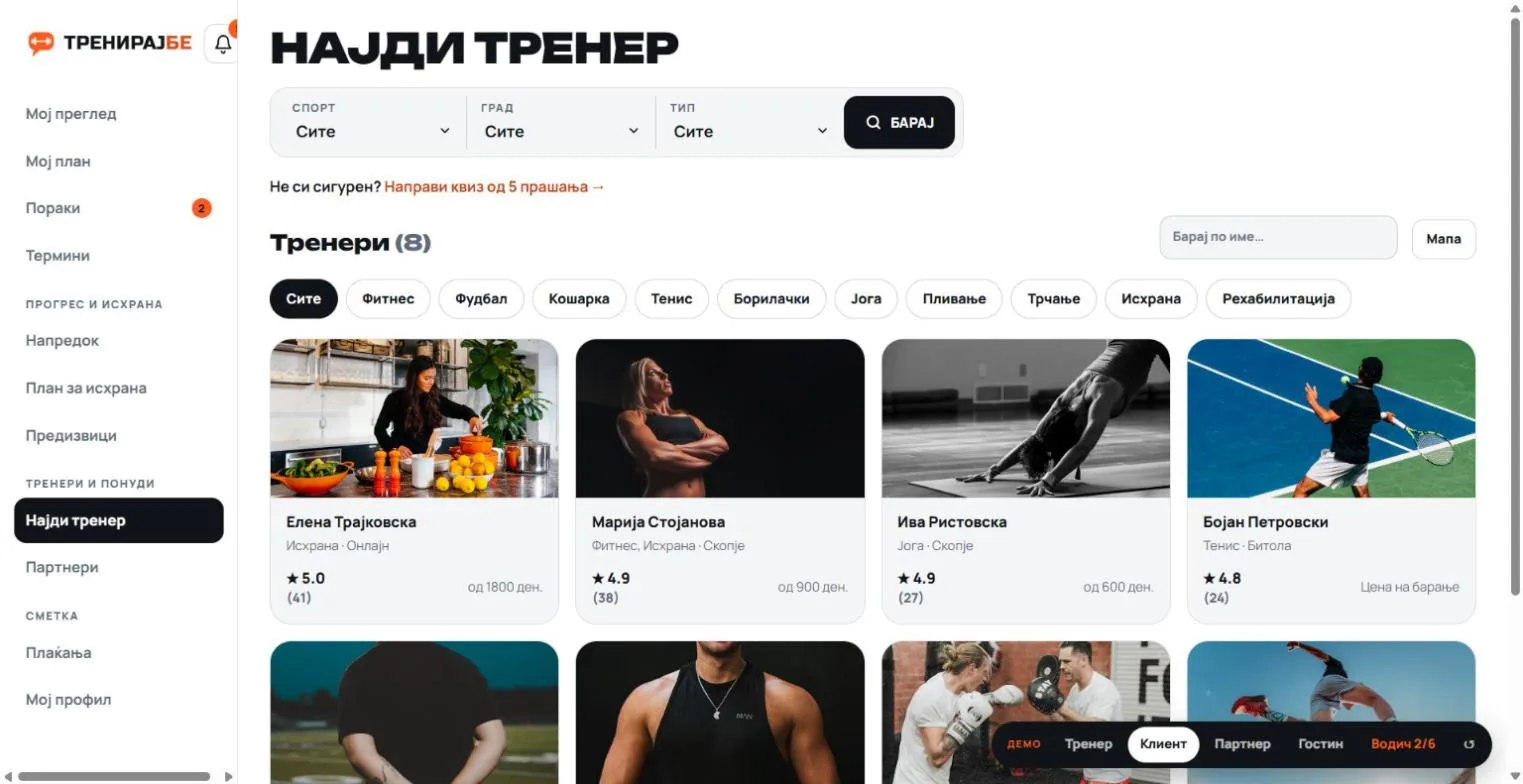
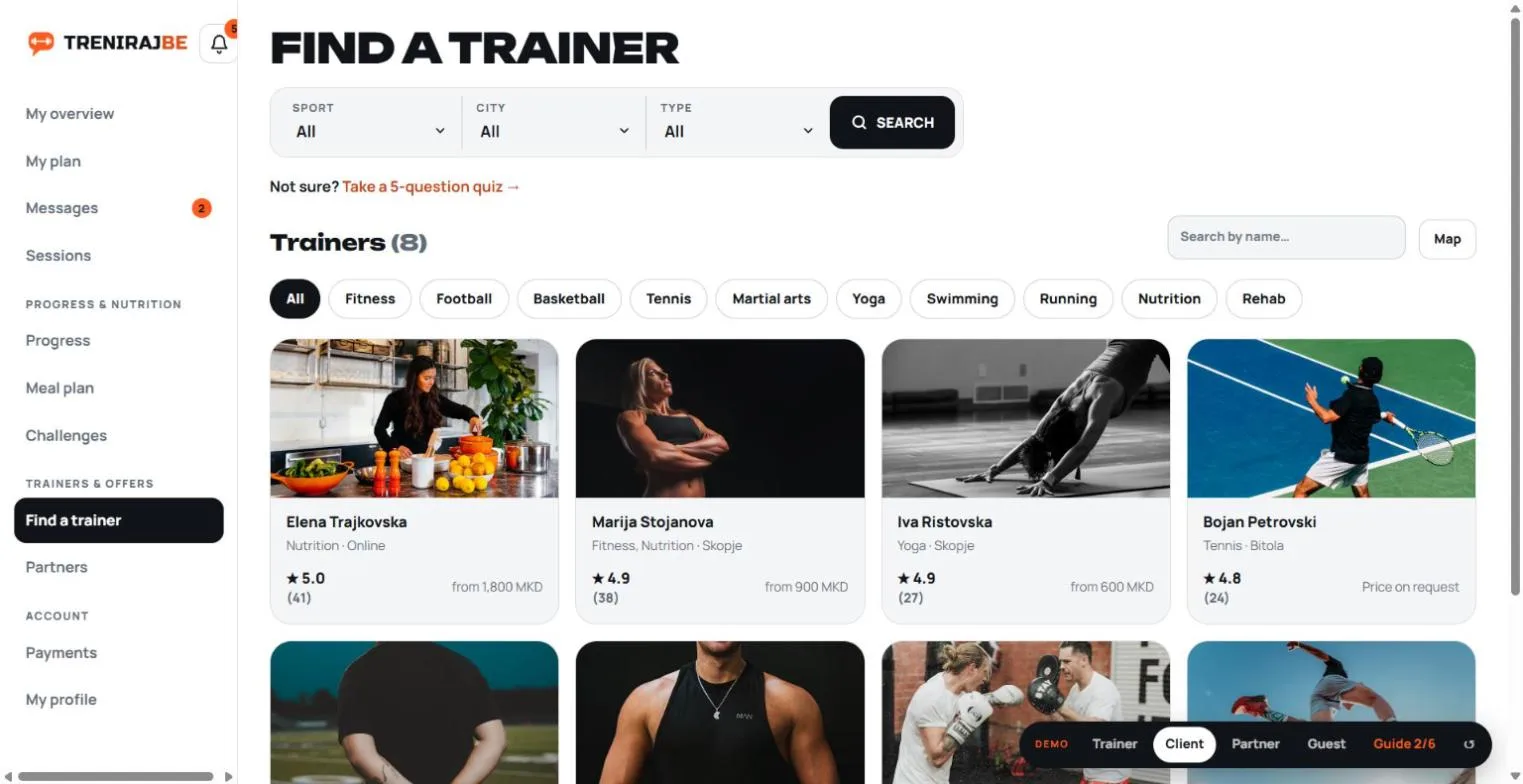
Show Treniraj screenshot in English
Claude-Session: https://claude.ai/code/session_01KAVm8EbfG5Ybuyv89A2gs4

diff --git a/index.html b/index.html
@@ -216,7 +216,7 @@ footer button{background:none;border:0;padding:0;font:inherit;color:#c9c4ba;curs
           <span class="num">03</span>
           <div class="glow" style="background:radial-gradient(closest-side,rgba(255,90,31,.34),rgba(255,90,31,0))" aria-hidden="true"></div>
           <div class="laptop float" style="width:min(560px,90%)">
-            <div class="screen"><img src="treniraj.webp" width="1523" height="784" alt="Treniraj trainer search screen" loading="lazy"></div>
+            <div class="screen"><img src="treniraj.webp" width="1523" height="784" alt="Treniraj find-a-trainer screen" loading="lazy"></div>
             <div class="base" aria-hidden="true"></div>
           </div>
         </div>
